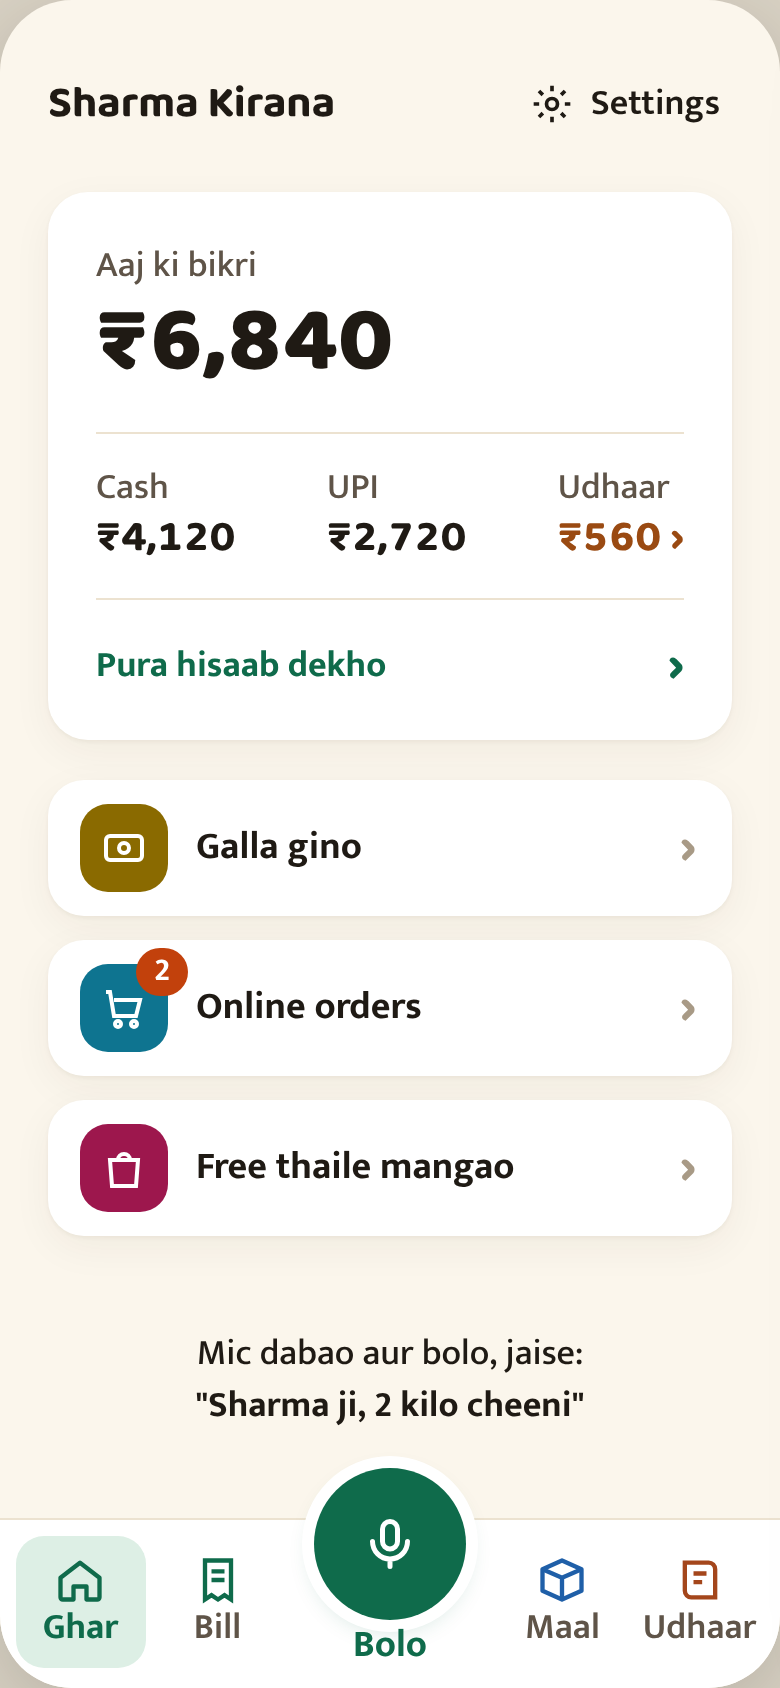
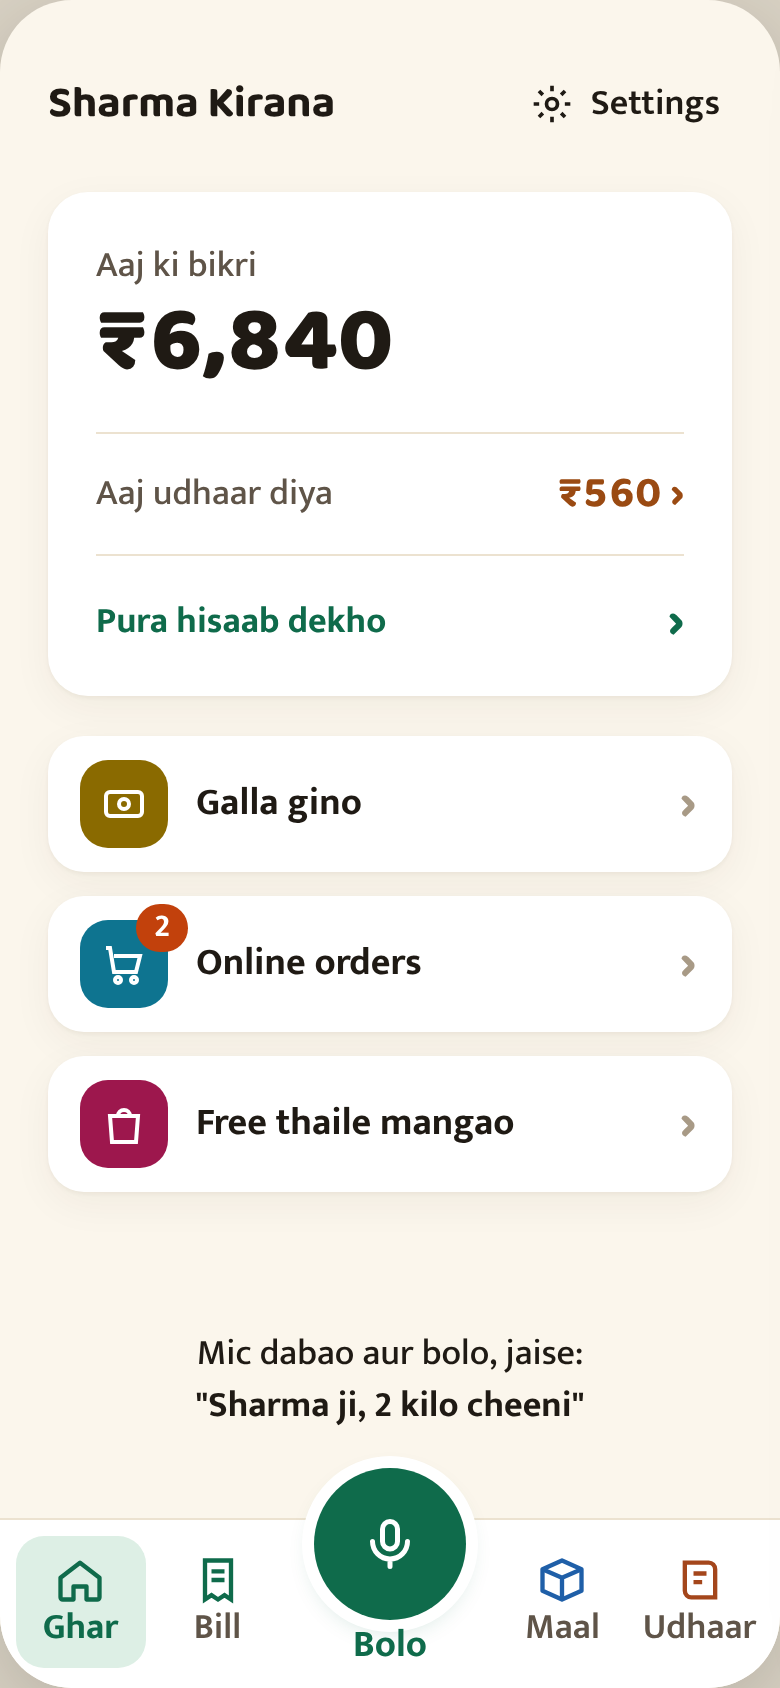
Design: owner-test round 4 fixes (Haan before Save rule, udhaar warning, simpler home card, 5 screens)
Claude-Session: https://claude.ai/code/session_01Dc9KGnrAUXnUwkJ5n5yUhd

Changed region(s): [[0.0615, 0.2773, 0.9231, 0.7393], [0.7077, 0.2773, 0.8923, 0.3389]]

diff --git a/design/preview.html b/design/preview.html
@@ -83,7 +83,9 @@
 .guess{display:flex;justify-content:space-between;align-items:center;margin-top:10px}
 .gtxt{color:#7A5600;font-weight:600;font-size:18px}
 .chg{white-space:nowrap;height:56px;padding:0 16px;border-radius:14px;border:1.5px solid #C99A1E;color:#7A5600;display:flex;align-items:center;font-weight:700;background:#fff}
-.chg.yes{border-color:var(--ac);color:var(--ac)}
+.chg.yes{background:var(--ac);border-color:var(--ac);color:#fff}
+.tot2{position:absolute;left:24px;right:24px;bottom:212px;display:flex;justify-content:space-between;align-items:baseline}
+.udnote{margin-top:14px;background:#FBE9DC;color:var(--ud);border-radius:14px;padding:12px 16px;font-weight:700}
 </style></head><body>
 <svg width="0" height="0" style="position:absolute"><defs>
 <symbol id="mic" viewBox="0 0 24 24" fill="none" stroke="currentColor" stroke-width="2" stroke-linecap="round"><rect x="9" y="3" width="6" height="11" rx="3"/><path d="M5 11a7 7 0 0 0 14 0M12 18v3"/></symbol>
@@ -104,7 +106,7 @@
 <div class="wrap"><div class="cap">1 · Ghar (Home)</div><div class="ph"><div class="top"><div class="store">Sharma Kirana</div><div class="ghost"><svg width="22" height="22"><use href="#gear"/></svg>Settings</div></div>
 <div class="pad">
 <div class="sales"><div class="lab">Aaj ki bikri</div><div class="big">₹6,840</div>
-<div class="three"><div><div class="lab">Cash</div><div class="num">₹4,120</div></div><div><div class="lab">UPI</div><div class="num">₹2,720</div></div><div><div class="lab">Udhaar</div><div class="num" style="color:var(--ud)">₹560 ›</div></div></div>
+<div class="three" style="align-items:center"><div class="lab">Aaj udhaar diya</div><div class="num" style="color:var(--ud)">₹560 ›</div></div>
 <div class="more"><span>Pura hisaab dekho</span><span style="font:700 26px 'Baloo 2'">›</span></div></div>
 <div class="rows"><div class="rowb"><div class="chipw"><div class="chip" style="background:var(--c-gal)"><svg width="24" height="24"><use href="#cash"/></svg></div></div><div class="grow">Galla gino</div><div class="chev">›</div></div><div class="rowb"><div class="chipw"><div class="chip" style="background:var(--c-ord)"><svg width="24" height="24"><use href="#cart"/></svg></div><span class="badge">2</span></div><div class="grow">Online orders</div><div class="chev">›</div></div><div class="rowb"><div class="chipw"><div class="chip" style="background:var(--c-bag)"><svg width="24" height="24"><use href="#bag"/></svg></div></div><div class="grow">Free thaile mangao</div><div class="chev">›</div></div></div>
 </div>
@@ -127,14 +129,28 @@
 <div class="sec">Paise kaise mile?</div>
 <div class="pay"><div class="pb on">✓ Cash</div><div class="pb">UPI</div><div class="pb ud">Udhaar</div></div>
 </div>
-<div class="act done">✓ Save karo · ₹106</div>
+<div class="tot2"><span class="num">Kul</span><span class="big" style="font-size:38px">₹106</span></div>
+<div class="act warn">Pehle Maggi pe "Haan" dabao</div>
 <div class="band"></div><div class="dock"><div class="c" style="background:var(--ac)"><svg width="30" height="30" style="color:#fff"><use href="#mic"/></svg></div><span style="color:var(--ac)">Bolke badlo</span></div></div></div>
-<div class="wrap"><div class="cap">4 · Ho gaya (Saved)</div><div class="ph"><div class="pad">
+<div class="wrap"><div class="cap">4 · Theek kiya, Udhaar chuna</div><div class="ph"><div class="top"><div class="ghost"><svg width="22" height="22"><use href="#back"/></svg>Peeche</div><div></div></div>
+<div class="pad">
+<div class="who" style="margin-top:16px"><div class="av">S</div><div class="t"><div class="lab" style="line-height:20px">Bill kiska?</div><div class="h1">Sharma ji</div></div><div class="link">Badlo</div></div>
+<div class="items">
+<div class="it"><div><div class="nm">Cheeni</div><div class="pr">₹46/kg · ₹92</div></div><div class="step"><i>−</i><em>2 kg</em><i>+</i></div></div>
+<div class="it"><div><div class="nm">Maggi chhota</div><div class="pr">₹14 ek · ₹28</div></div><div class="step"><i>−</i><em>2</em><i>+</i></div></div>
+</div>
+<div class="sec">Paise kaise mile?</div>
+<div class="pay"><div class="pb">Cash</div><div class="pb">UPI</div><div class="pb on" style="background:var(--ud)">✓ Udhaar</div></div>
+<div class="udnote">Sharma ji ke khate mein ₹120 judega</div>
+</div>
+<div class="act done">✓ Save karo · ₹120</div>
+<div class="band"></div><div class="dock"><div class="c" style="background:var(--ac)"><svg width="30" height="30" style="color:#fff"><use href="#mic"/></svg></div><span style="color:var(--ac)">Bolke badlo</span></div></div></div>
+<div class="wrap"><div class="cap">5 · Ho gaya (Saved)</div><div class="ph"><div class="pad">
 <div class="ok"><div class="okc"><svg width="48" height="48" style="color:#fff"><use href="#tick"/></svg></div>
-<div class="h1" style="margin-top:24px">Bill ban gaya</div><div class="lab" style="margin-top:4px">Sharma ji · Cash</div><div class="big" style="margin-top:8px">₹120</div></div>
-<div class="changed"><span>Stock se kam hua: 2 kg cheeni, 2 Maggi</span></div>
+<div class="h1" style="margin-top:24px">Bill ban gaya</div><div class="lab" style="margin-top:4px">Sharma ji · Udhaar</div><div class="big" style="margin-top:8px">₹120</div></div>
+<div class="changed"><span>Udhaar khate mein ₹120 juda.<br>Stock se kam: 2 kg cheeni, 2 Maggi</span></div>
 <div class="wa" style="color:#137A3C;box-shadow:inset 0 0 0 2px #1FA855"><svg width="26" height="26"><use href="#wa"/></svg>Sharma ji ko WhatsApp karo</div>
-<div class="undorow"><span class="lab">Galti hui?</span><div class="undo">Bill hatao, stock wapas</div></div>
+<div class="undorow"><span class="lab">Galti hui?</span><div class="undo">Bill hatao</div></div>
 </div>
 <div class="act done"><svg width="24" height="24"><use href="#bill"/></svg>Naya bill</div>
 <div class="band"></div><div class="dock"><div class="c" style="background:var(--ac)"><svg width="30" height="30" style="color:#fff"><use href="#mic"/></svg></div><span style="color:var(--ac)">Bolo</span></div></div></div>
